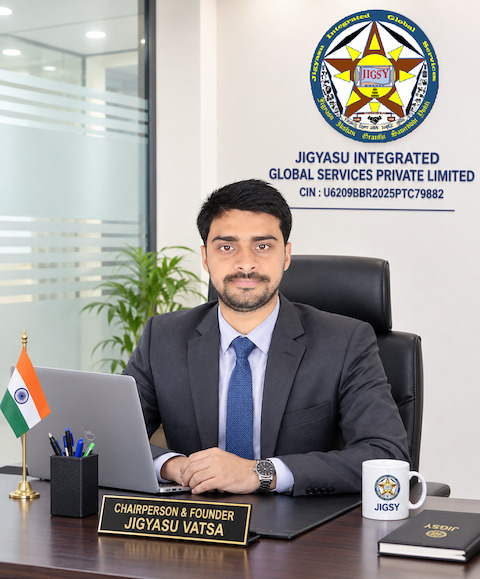
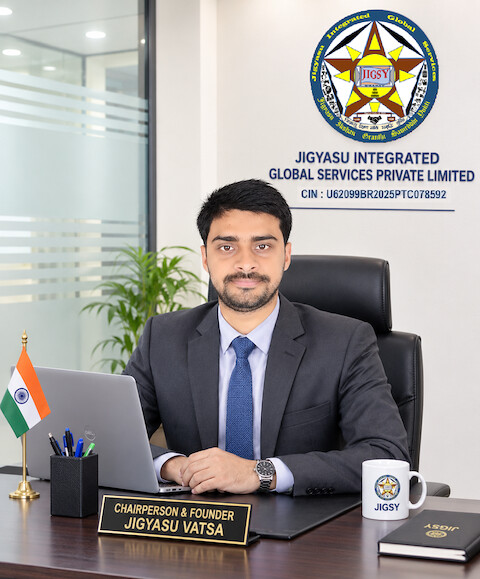
perf: update corporate portrait assets
Replace Chairperson corporate portrait images with updated versions.

Changed region(s): [[0.625, 0.3109, 0.9375, 0.342]]

diff --git a/src/utils/logic.test.ts b/src/utils/logic.test.ts
@@ -273,20 +273,20 @@ test('Founder copy across en/hi/mai and assistant reflects updated credentials (
 test('buildCrispImageSource maps active assets to Lanczos multi-resolution srcSet and supports subpath bases', () => {
   assert.ok(Object.keys(OPTIMIZED_IMAGE_REGISTRY).length >= 10);
 
-  const smallDirector = buildCrispImageSource('/assets/aistudio/Confident_Corporate_Portrait_at_JIGYASU__1__16c127e6.png', {
+  const smallDirector = buildCrispImageSource('/assets/aistudio/Confident_Corporate_Portrait_at_JIGYASU__1__556345ac.png', {
     targetWidth: 360,
     baseUrl: '/',
   });
   assert.equal(smallDirector.src, '/assets/aistudio/opt/founder_standing-480.jpg');
   assert.ok(smallDirector.srcSet?.includes('/assets/aistudio/opt/founder_standing-240.jpg 240w'));
-  assert.ok(smallDirector.srcSet?.includes('/assets/aistudio/Confident_Corporate_Portrait_at_JIGYASU__1__16c127e6.png 1199w'));
-  assert.equal(smallDirector.fullResSrc, '/assets/aistudio/Confident_Corporate_Portrait_at_JIGYASU__1__16c127e6.png');
+  assert.ok(smallDirector.srcSet?.includes('/assets/aistudio/Confident_Corporate_Portrait_at_JIGYASU__1__556345ac.png 1199w'));
+  assert.equal(smallDirector.fullResSrc, '/assets/aistudio/Confident_Corporate_Portrait_at_JIGYASU__1__556345ac.png');
 
-  const fullResZoom = buildCrispImageSource('/assets/aistudio/Confident_Corporate_Portrait_at_JIGYASU__1__16c127e6.png', {
+  const fullResZoom = buildCrispImageSource('/assets/aistudio/Confident_Corporate_Portrait_at_JIGYASU__1__556345ac.png', {
     preferFullRes: true,
     baseUrl: '/jigsy-site/',
   });
-  assert.equal(fullResZoom.src, '/jigsy-site/assets/aistudio/Confident_Corporate_Portrait_at_JIGYASU__1__16c127e6.png');
+  assert.equal(fullResZoom.src, '/jigsy-site/assets/aistudio/Confident_Corporate_Portrait_at_JIGYASU__1__556345ac.png');
   assert.equal(fullResZoom.srcSet, undefined);
 
   const logoSubpath = buildCrispImageSource('/jigsy-site/assets/aistudio/company_logo_9f4f4bb5.png', {

diff --git a/src/utils/imageAssets.ts b/src/utils/imageAssets.ts
@@ -45,8 +45,8 @@ export const OPTIMIZED_IMAGE_REGISTRY: Record<string, OptimizedImageSet> = {
       { path: '/assets/aistudio/opt/director1-640.jpg', width: 640 },
     ],
   },
-  'JIGSY_Chairperson_Corporate_Portrait_0c353573.png': {
-    originalPath: '/assets/aistudio/JIGSY_Chairperson_Corporate_Portrait_0c353573.png',
+  'JIGSY_Chairperson_Corporate_Portrait_aac8c605.png': {
+    originalPath: '/assets/aistudio/JIGSY_Chairperson_Corporate_Portrait_aac8c605.png',
     originalWidth: 1142,
     variants: [
       { path: '/assets/aistudio/opt/founder_chairperson-240.jpg', width: 240 },
@@ -54,8 +54,8 @@ export const OPTIMIZED_IMAGE_REGISTRY: Record<string, OptimizedImageSet> = {
       { path: '/assets/aistudio/opt/founder_chairperson-760.jpg', width: 760 },
     ],
   },
-  'Confident_Corporate_Portrait_at_JIGYASU__1__16c127e6.png': {
-    originalPath: '/assets/aistudio/Confident_Corporate_Portrait_at_JIGYASU__1__16c127e6.png',
+  'Confident_Corporate_Portrait_at_JIGYASU__1__556345ac.png': {
+    originalPath: '/assets/aistudio/Confident_Corporate_Portrait_at_JIGYASU__1__556345ac.png',
     originalWidth: 1199,
     variants: [
       { path: '/assets/aistudio/opt/founder_standing-240.jpg', width: 240 },
@@ -63,8 +63,8 @@ export const OPTIMIZED_IMAGE_REGISTRY: Record<string, OptimizedImageSet> = {
       { path: '/assets/aistudio/opt/founder_standing-760.jpg', width: 760 },
     ],
   },
-  'Confident_Corporate_Portrait_at_JIGYASU_a4741f9c.png': {
-    originalPath: '/assets/aistudio/Confident_Corporate_Portrait_at_JIGYASU_a4741f9c.png',
+  'Confident_Corporate_Portrait_at_JIGYASU_24e9f1da.png': {
+    originalPath: '/assets/aistudio/Confident_Corporate_Portrait_at_JIGYASU_24e9f1da.png',
     originalWidth: 771,
     variants: [
       { path: '/assets/aistudio/opt/founder_headshot-160.jpg', width: 160 },

diff --git a/src/data/companyData.ts b/src/data/companyData.ts
@@ -38,9 +38,9 @@ export const ENGAGEMENT_REQUEST_TYPES = [
 ] as const;
 
 export const FOUNDER_PORTRAITS = {
-  chairperson: resolveAssetUrl('/assets/aistudio/JIGSY_Chairperson_Corporate_Portrait_0c353573.png'),
-  standing: resolveAssetUrl('/assets/aistudio/Confident_Corporate_Portrait_at_JIGYASU__1__16c127e6.png'),
-  headshot: resolveAssetUrl('/assets/aistudio/Confident_Corporate_Portrait_at_JIGYASU_a4741f9c.png'),
+  chairperson: resolveAssetUrl('/assets/aistudio/JIGSY_Chairperson_Corporate_Portrait_aac8c605.png'),
+  standing: resolveAssetUrl('/assets/aistudio/Confident_Corporate_Portrait_at_JIGYASU__1__556345ac.png'),
+  headshot: resolveAssetUrl('/assets/aistudio/Confident_Corporate_Portrait_at_JIGYASU_24e9f1da.png'),
 };
 
 export const DIRECTORS = [

diff --git a/index.html b/index.html
@@ -191,7 +191,7 @@
             "jobTitle": "Founder, Chairperson, Director & Chief Technology Architect",
             "description": "M.Tech (CSE), MBA, Researcher, Founder of JIGSY INDIA (Jigyasu Integrated Global Services Private Limited), and author of Mastering DSA Without Fear.",
             "url": "https://jigyasu.jigsy.in",
-            "image": "https://jigsy.in/assets/aistudio/JIGSY_Chairperson_Corporate_Portrait_0c353573.png",
+            "image": "https://jigsy.in/assets/aistudio/JIGSY_Chairperson_Corporate_Portrait_aac8c605.png",
             "worksFor": {
               "@id": "https://jigsy.in/#organization"
             },
